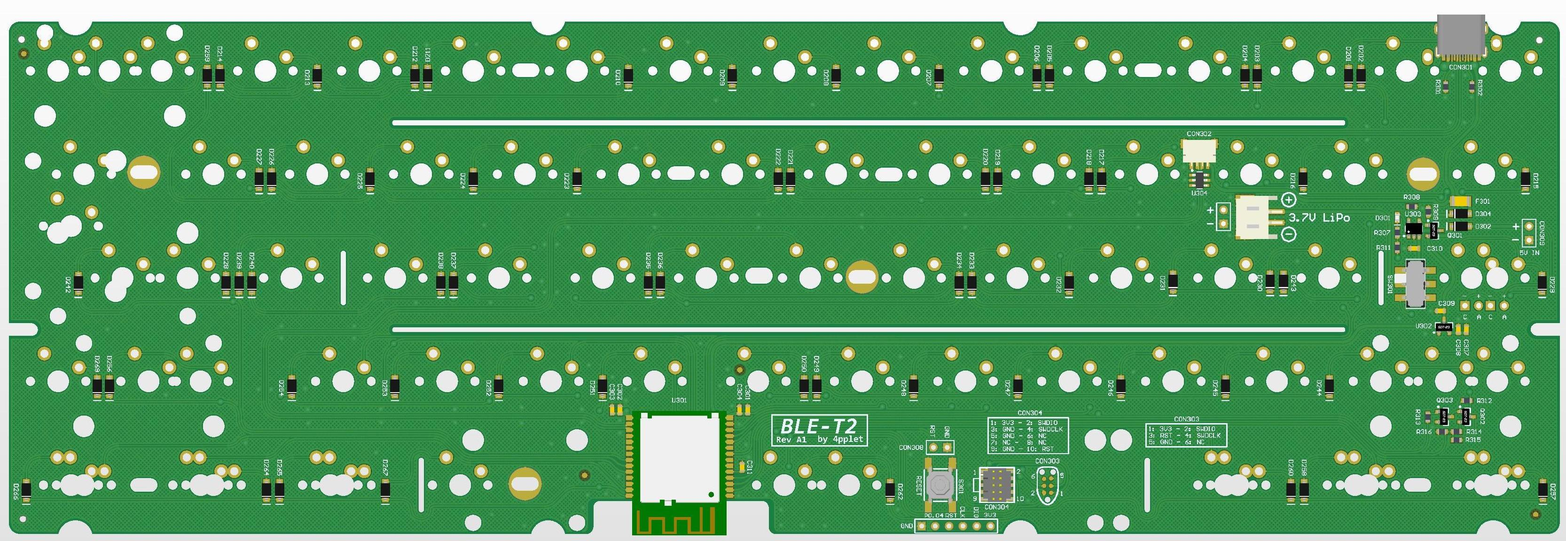
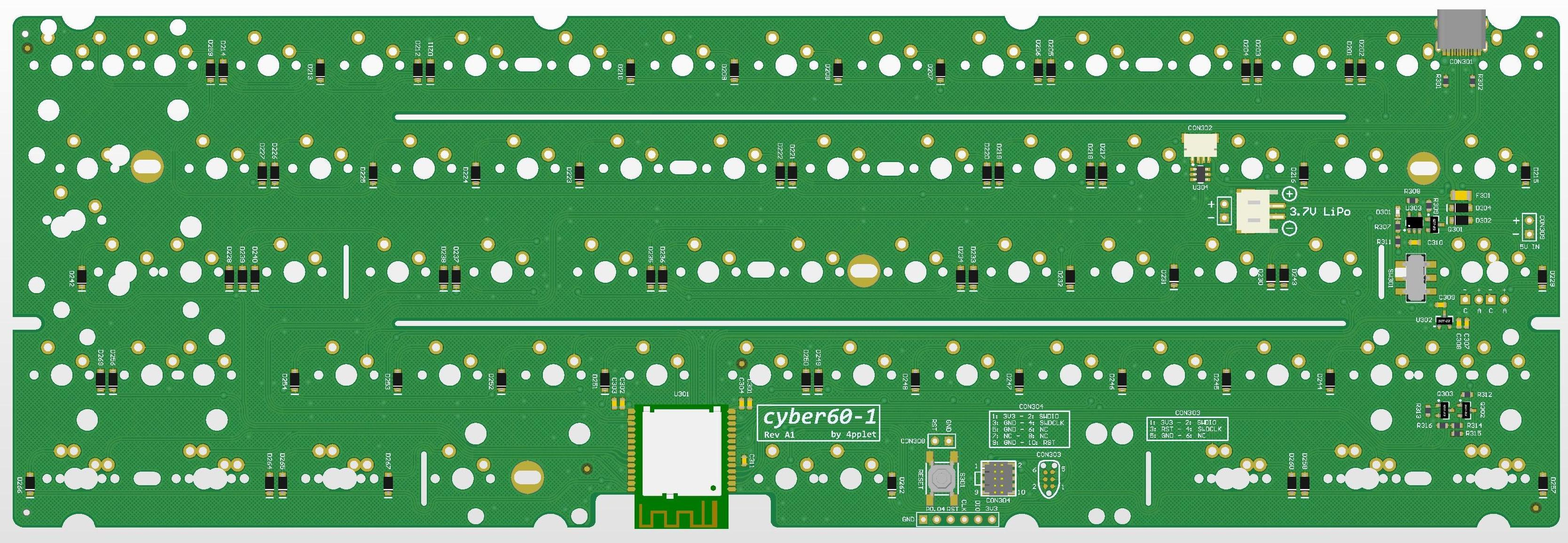
updated readme

diff --git a/README.md b/README.md
@@ -4,36 +4,36 @@ Repo for experimental keyboard PCB's using nRF52840, the cyber.
 ## Status:
 Prototyping phase.
 
-# cyber60_1
+# cyber60-1
 
-## Specs cyber60_1:
+## Specs cyber60-1:
 - Module: Minew MS88SF2
 - Standard Tray Mount support
 - Non constant drain battery measurement
 - Lipo charger
 
-## Layout support cyber60_1:
+## Layout support cyber60-1:
 ![alt text](./readme-images/layout_support_cyber60_1_Rev_A1.jpg "Layout support")
 
-## Altium view of - cyber60_1
+## Altium view of - cyber60-1
 ![alt text](./readme-images/cyber60_1_Rev_A1.jpg "PCB View - Rev A")
 
 ## Revisions:
 A1 - initial revision/prototype
 
-# cyber60_2
+# cyber60-2
 
-## Specs cyber60_2:
+## Specs cyber60-2:
 - Module: Holyiot YJ-18010
 - Standard Tray Mount support
 - Non constant drain battery measurement
 - Lipo charger
 - RGB-led under Capslock for multi function indicator
 
-## Layout support cyber60_2:
+## Layout support cyber60-2:
 ![alt text](./readme-images/layout_support_cyber60_2_Rev_A1.jpg "Layout support")
 
-## Altium view of - cyber60_2
+## Altium view of - cyber60-2
 ![alt text](./readme-images/cyber60_2_Rev_A1.jpg "PCB View - Rev A")
 
 ## Revisions:
